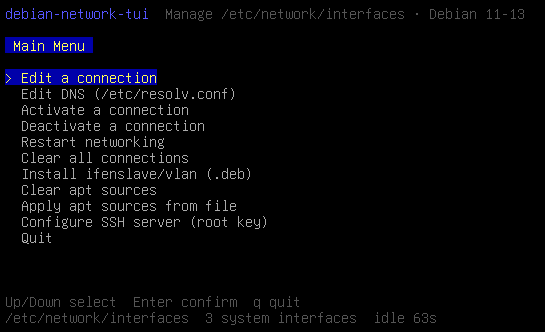
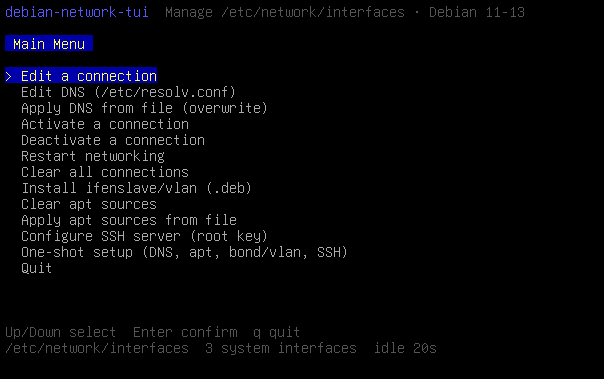
Update main menu screenshot to include one-shot setup option.

diff --git a/README.md b/README.md
@@ -47,8 +47,8 @@ Get binaries from [GitHub Releases](https://github.com/Songxwn/Debian-network-tu
 
 ```bash
 # amd64 example
-tar -xzf debian-network-tui-v0.3.5-linux-amd64.tar.gz
-sudo install -m 755 debian-network-tui-v0.3.5-linux-amd64 /usr/local/bin/debian-network-tui
+tar -xzf debian-network-tui-v0.3.6-linux-amd64.tar.gz
+sudo install -m 755 debian-network-tui-v0.3.6-linux-amd64 /usr/local/bin/debian-network-tui
 ```
 
 Pushing a `v*` tag triggers GitHub Actions to build and publish a Release.

diff --git a/README_ZH.md b/README_ZH.md
@@ -52,8 +52,8 @@
 
 ```bash
 # amd64 示例（版本号按 Release 实际修改）
-tar -xzf debian-network-tui-v0.3.5-linux-amd64.tar.gz
-sudo install -m 755 debian-network-tui-v0.3.5-linux-amd64 /usr/local/bin/debian-network-tui
+tar -xzf debian-network-tui-v0.3.6-linux-amd64.tar.gz
+sudo install -m 755 debian-network-tui-v0.3.6-linux-amd64 /usr/local/bin/debian-network-tui
 ```
 
 推送 `v*` 标签后，GitHub Actions 会自动编译并发布。
